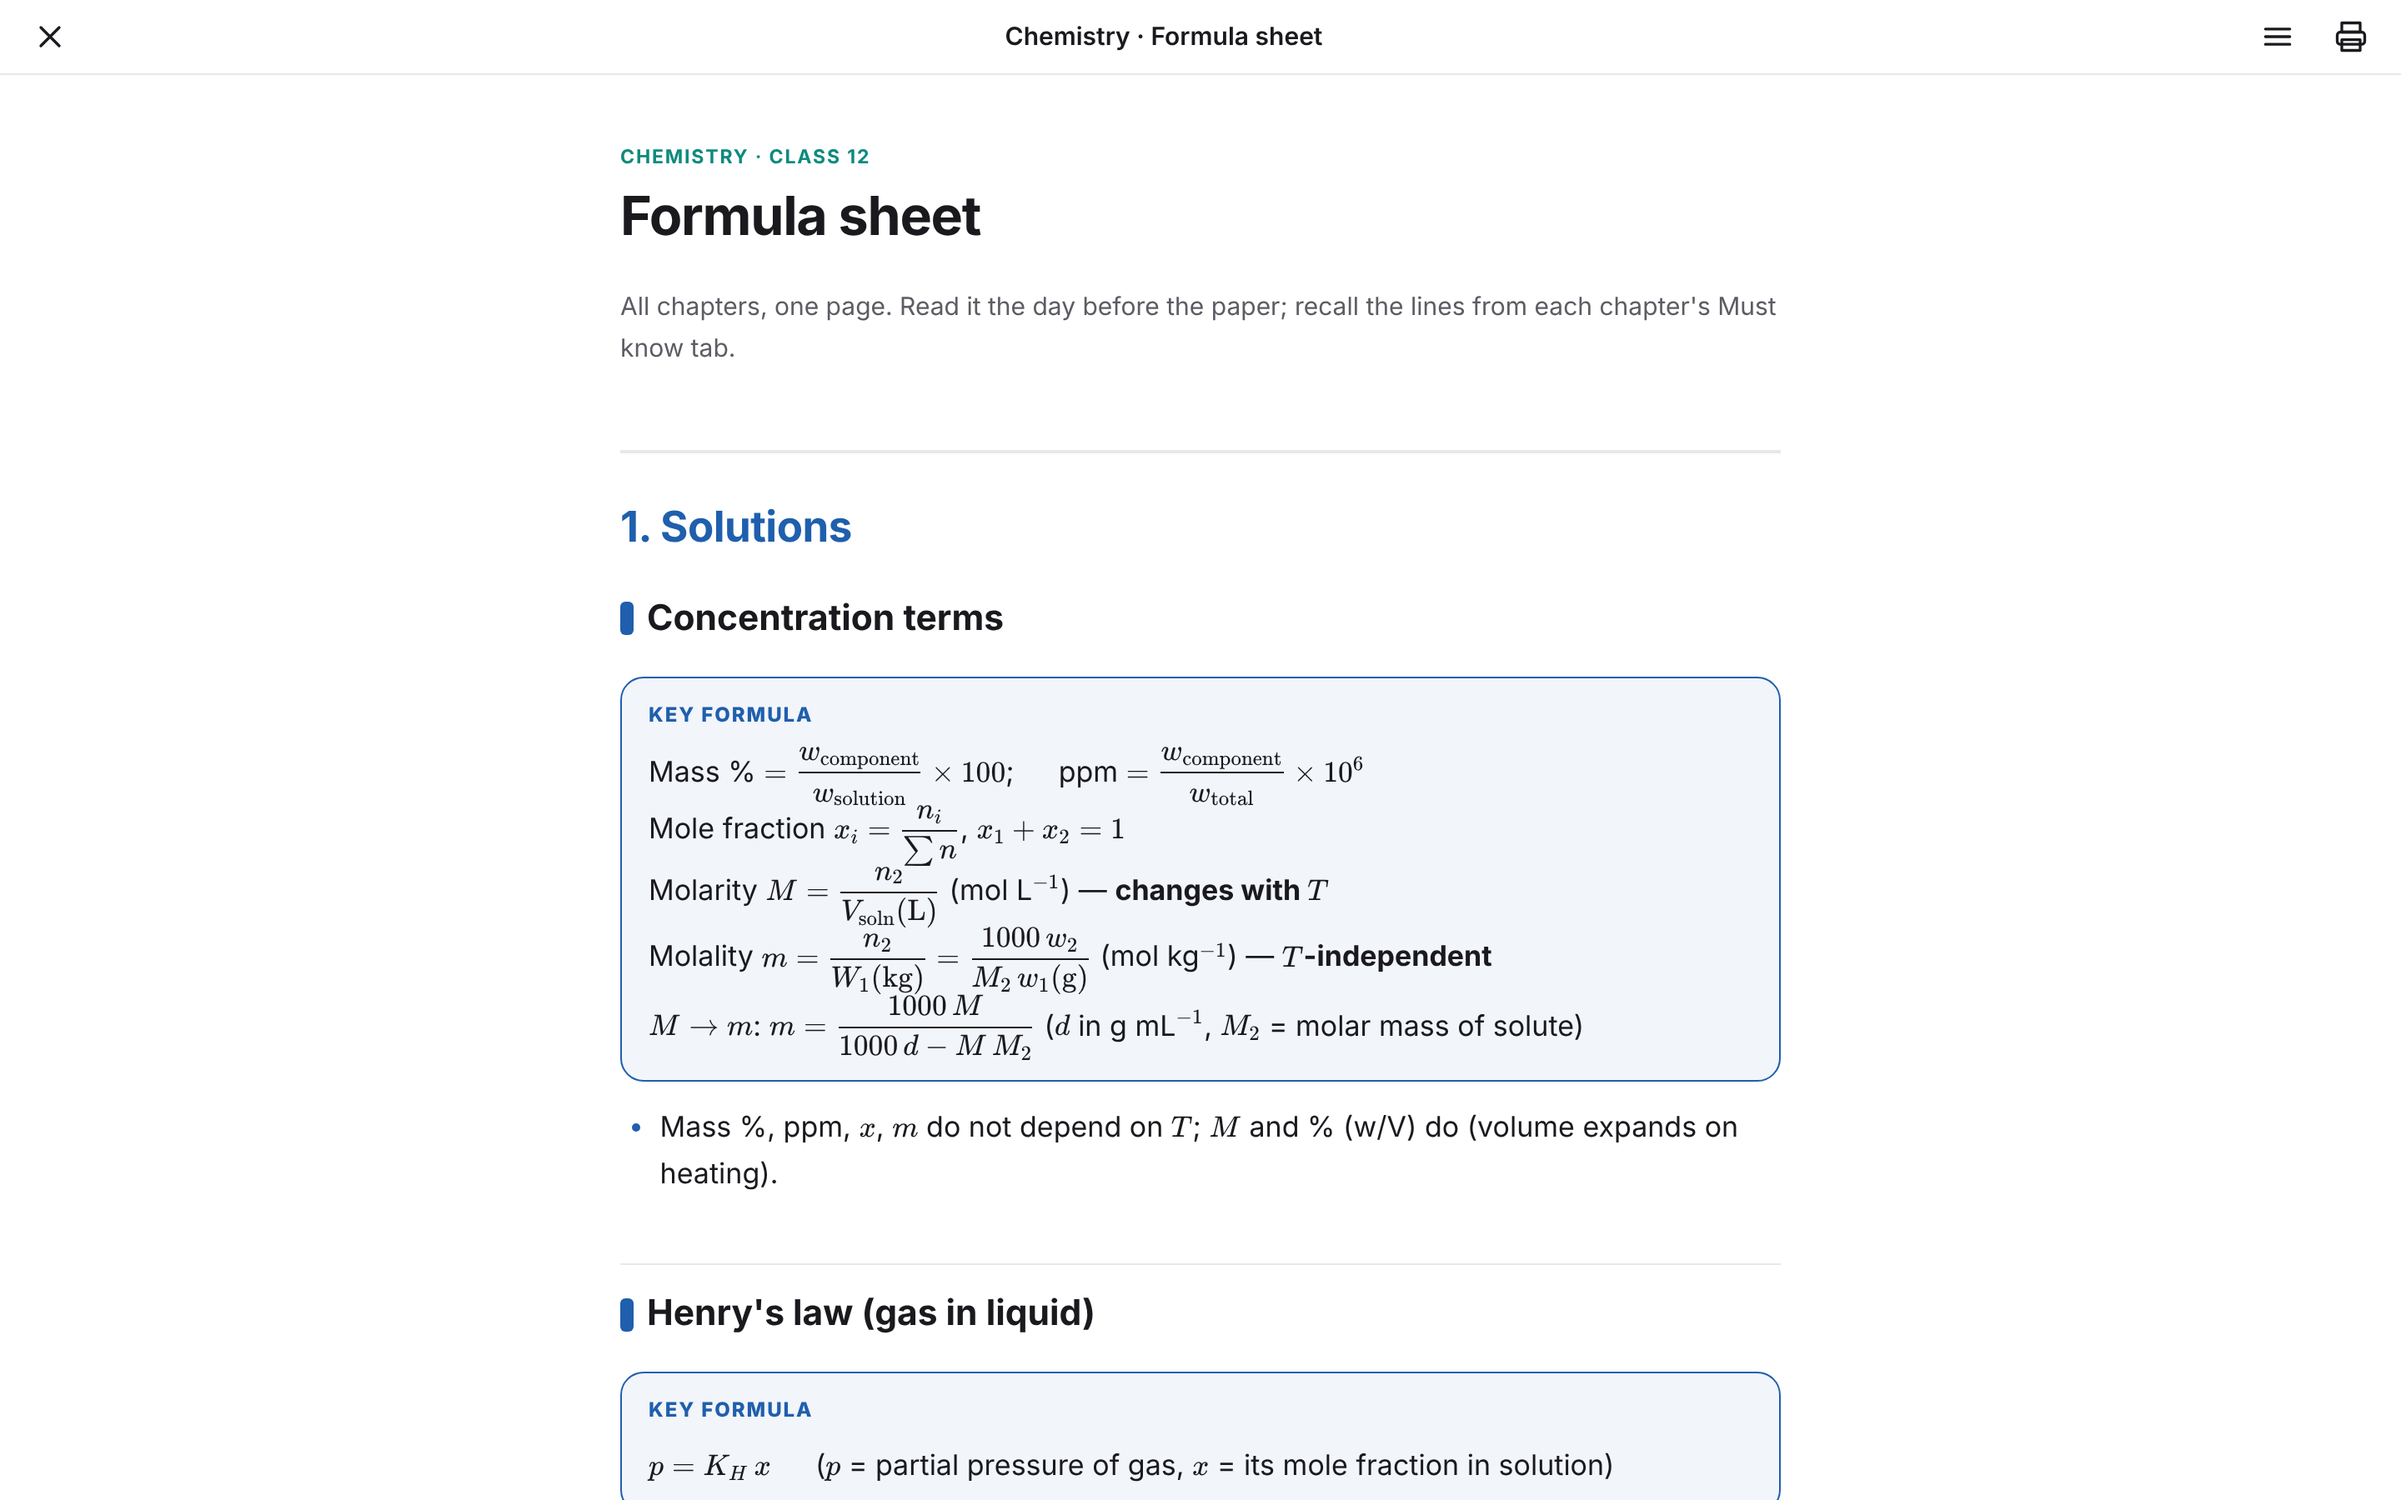
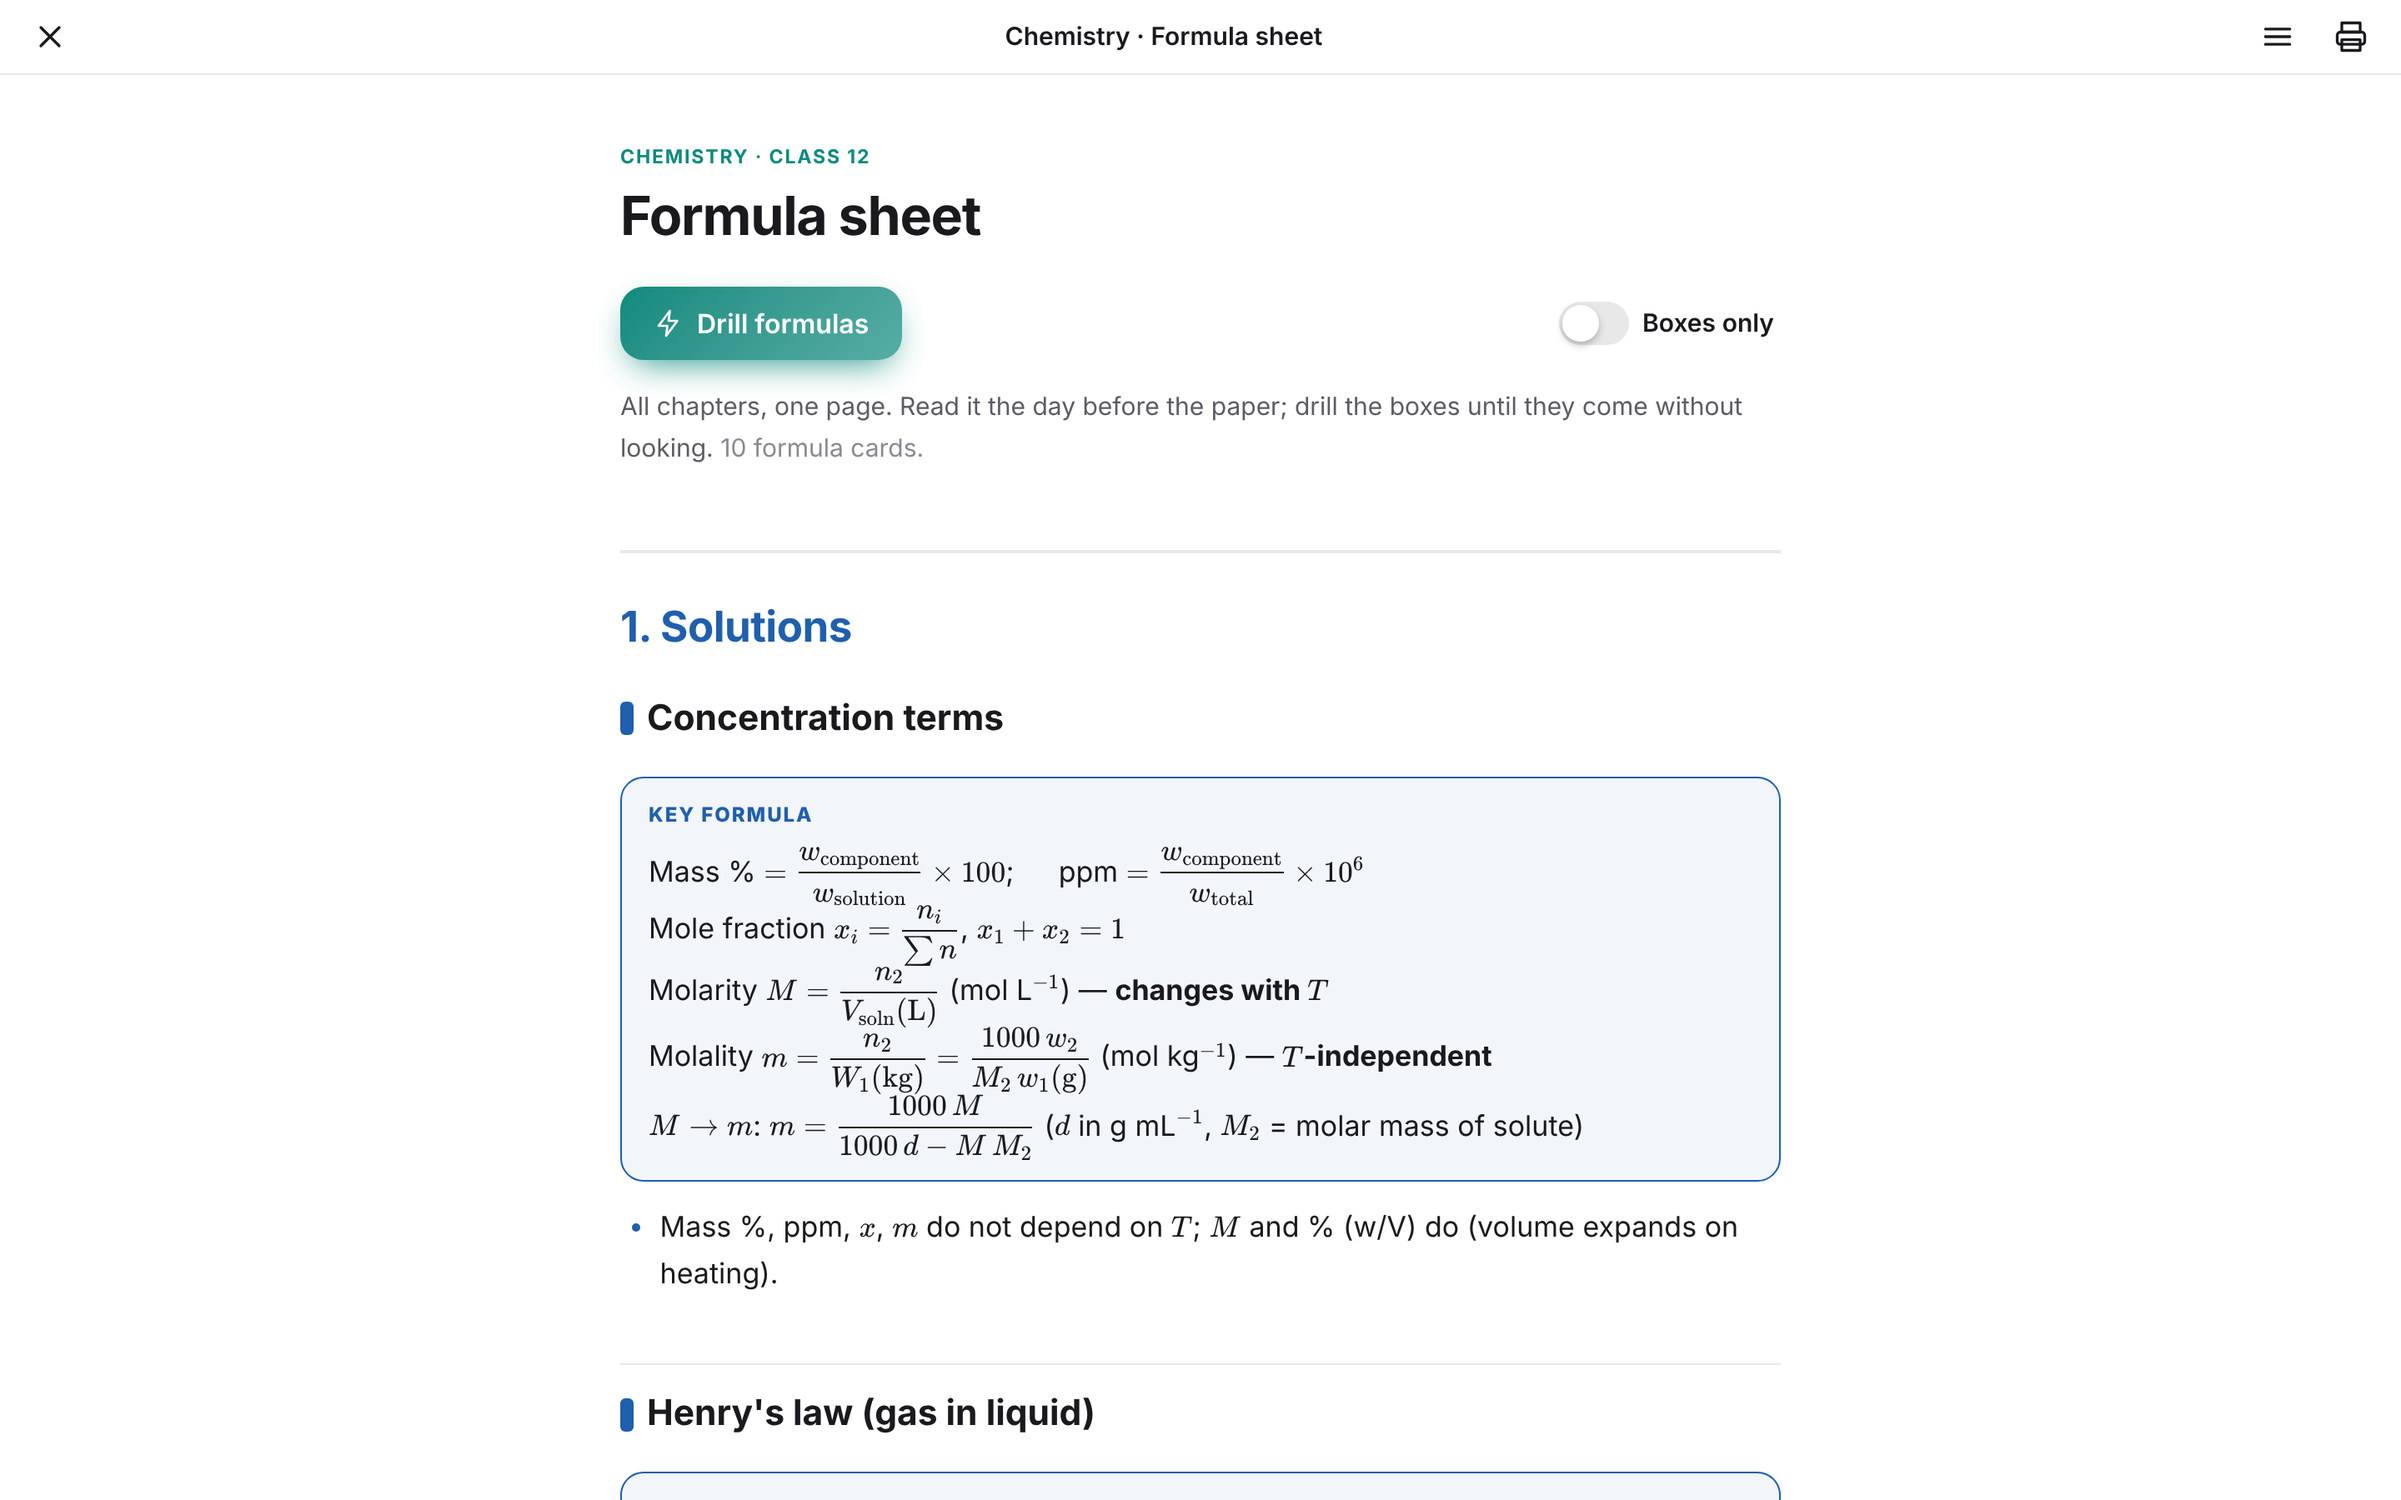
site: formula remembering — Drill formulas and Boxes only on the formula sheet
- Formula sheet: 'Drill formulas' opens …/formulas/drill, a recall session of only the subject's :::formula cards
  (title = question; untitled boxes ask 'LHS = ?'), same Leitner schedule and ids as chapter Recall.
- 'Boxes only' switch hides the prose and keeps the formula boxes (and the heading naming each box); remembered.
- Card count and due-today shown under the title.
- sw: CACHE_VERSION dev13.

Claude-Session: https://claude.ai/code/session_013Q11xHt3aNdyCJserdQXRT

diff --git a/app/views/formulas.js b/app/views/formulas.js
@@ -1,22 +1,47 @@
 // Subject formula sheet: every chapter's formulas.md stitched into one page, opened in the reader frame.
-import { html, raw, icon, esc, emptyState } from '../ui.js';
+// Two extras for remembering: "Drill formulas" (recall session of the subject's formula cards) and
+// "Boxes only" (hides the prose, shows just the formula boxes — for the night before).
+import { html, raw, icon, esc, emptyState, haptic } from '../ui.js';
 import { data, routeFor } from '../data.js';
+import { store } from '../store.js';
 
 export async function formulaSheet({ cls, stream, sub }) {
   const chapters = data.allChapters(sub).filter((c) => c.items?.formulas);
   const back = routeFor(cls.id, stream.id, sub.id);
+  const boxesOnly = !!store.get('formulas.boxesOnly', false);
   return {
     title: `${sub.name} · formula sheet`, tab: 'subjects', fullscreen: true, unitColour: sub.colour,
-    html: html`<div class="rd" id="rd" data-paper="auto" data-font="sans" data-mode="scroll" style="--unit:#${sub.colour};--rd-size:17px">
+    html: html`<div class="rd${boxesOnly ? ' is-boxes' : ''}" id="rd" data-paper="auto" data-font="sans" data-mode="scroll" style="--unit:#${sub.colour};--rd-size:17px">
       <header class="rd__top"><a class="icon-btn" href="${back}" aria-label="Close">${raw(icon('x'))}</a><div class="rd__title truncate">${sub.name} · Formula sheet</div><div class="row" style="gap:0"><button class="icon-btn" type="button" data-contents aria-label="Chapters">${raw(icon('menu'))}</button><button class="icon-btn hide-phone" type="button" onclick="window.print()" aria-label="Print">${raw(icon('print'))}</button></div></header>
       <div class="rd__stage"><article class="rd__book" id="rd-book">
         <div class="rd__unit">${sub.name} · ${cls.name}</div>
         <h1 class="rd__h1">Formula sheet</h1>
-        <p class="t-2" style="font-family:var(--font-sans);font-size:var(--fs-subhead)">All chapters, one page. Read it the day before the paper; recall the lines from each chapter's Must know tab.</p>
+        <div class="fs-tools" role="group" aria-label="Formula tools">
+          <a class="btn btn--unit" href="${back}/formulas/drill" style="--unit:#${sub.colour}">${raw(icon('bolt'))} Drill formulas</a>
+          <button class="fs-toggle" type="button" role="switch" aria-checked="${boxesOnly}" data-boxes><span class="switch" aria-hidden="true"></span><span>Boxes only</span></button>
+        </div>
+        <p class="t-2 fs-intro" id="fs-count" style="font-family:var(--font-sans);font-size:var(--fs-subhead)">All chapters, one page. Read it the day before the paper; drill the boxes until they come without looking.</p>
         <div id="fs-content">${chapters.length ? raw(chapters.map((c) => `<section id="fs-${c.id}" data-colour="${c.unitObj.colour}"><h2 class="rd__divider" style="color:#${c.unitObj.colour}">${c.number}. ${esc(c.title)}</h2><div class="skeleton" style="height:4rem"></div></section>`).join('')) : emptyState({ icon: 'formula', title: 'No formula sections yet' })}</div>
       </article></div>
     </div>`,
     async mount(el) {
+      const rd = el.querySelector('#rd');
+      const sw = el.querySelector('[data-boxes]');
+      sw.addEventListener('click', () => {
+        const on = !rd.classList.contains('is-boxes');
+        rd.classList.toggle('is-boxes', on); sw.setAttribute('aria-checked', String(on)); sw.querySelector('.switch').setAttribute('aria-checked', String(on));
+        store.set('formulas.boxesOnly', on); haptic();
+      });
+      sw.querySelector('.switch').setAttribute('aria-checked', String(boxesOnly));
+      // how many formula cards this subject has, and how many are due
+      import('./recall.js').then(async ({ formulaCards }) => {
+        const { cardState, isDue } = await import('../recall.js');
+        const cards = await formulaCards(sub);
+        if (!cards.length) return;
+        const due = cards.filter((c) => isDue(c.id)).length, seen = cards.filter((c) => cardState(c.id)).length;
+        const p = el.querySelector('#fs-count');
+        if (p) p.insertAdjacentHTML('beforeend', ` <span class="t-3">${cards.length} formula cards${due ? ` · <strong>${due} due today</strong>` : seen ? ` · ${seen} on your schedule` : ''}.</span>`);
+      }).catch(() => {});
       if (!chapters.length) return;
       const { renderMarkdown } = await import('../markdown.js');
       for (const c of chapters) {
@@ -24,6 +49,7 @@ export async function formulaSheet({ cls, stream, sub }) {
         const src = await data.formulas(sub, c.id);
         const node = await renderMarkdown(src || '', { unitColour: c.unitObj.colour });
         sec.querySelector('.skeleton')?.remove(); sec.appendChild(node);
+        for (const h of node.querySelectorAll(':scope > h2, :scope > h3')) if (h.nextElementSibling?.classList.contains('box--formula')) h.classList.add('fs-keep'); // headings that name a box stay in Boxes only
         const { attach } = await import('../highlights.js'); attach(node, `${sub.id}/${c.id}/formulas`);
       }
       el.querySelector('[data-contents]')?.addEventListener('click', async () => {

diff --git a/app/views/recall.js b/app/views/recall.js
@@ -10,6 +10,21 @@ export async function recallChapter({ cls, stream, sub, unit, ch }) {
   return build({ title: `Recall · Ch ${ch.number}`, cards: session(cards, { max: 25 }), back: routeFor(cls.id, stream.id, sub.id, ch.id, 'mustknow'), colour: unit.colour, cls, stream, sub, total: cards.length });
 }
 
+/** All formula cards of one subject (every chapter's :::formula boxes), same Leitner schedule as chapter Recall. */
+export async function formulaCards(sub) {
+  const out = [];
+  for (const c of data.allChapters(sub).filter((x) => x.items?.mustknow)) {
+    const src = await data.mustknow(sub, c.id);
+    if (src) out.push(...cardsFrom(src, { subject: sub.id, chapter: c.id, chapterTitle: c.title, colour: c.unitObj.colour }).filter((k) => k.kind === 'formula'));
+  }
+  return out;
+}
+/** …/<subject>/formulas/drill — a recall session of formula cards only. */
+export async function recallFormulas({ cls, stream, sub }) {
+  const cards = await formulaCards(sub);
+  return build({ title: `Drill formulas · ${sub.name}`, cards: session(cards, { max: 30 }), back: routeFor(cls.id, stream.id, sub.id, 'formulas'), colour: sub.colour, cls, stream, sub, total: cards.length, emptyTitle: 'No formula cards yet', emptyText: 'Titled :::formula boxes in each chapter’s Must know become drill cards.' });
+}
+
 /** #/recall — everything due today across the student's subjects. */
 export async function recallDue() {
   const s = store.settings;
@@ -32,7 +47,7 @@ export async function recallDue() {
   return build({ title: 'Recall · due today', cards: list, back: '#/today', colour: null, cls: s.class, stream: s.stream, total: list.length });
 }
 
-function build({ title, cards, back, colour, cls, stream, sub, total }) {
+function build({ title, cards, back, colour, cls, stream, sub, total, emptyTitle, emptyText }) {
   const unitStyle = colour ? `--unit:#${colour}` : '';
   return {
     title, tab: 'today', fullscreen: true, unitColour: colour,
@@ -50,7 +65,7 @@ function build({ title, cards, back, colour, cls, stream, sub, total }) {
       const stage = el.querySelector('#rc-stage'), foot = el.querySelector('#rc-foot'), count = el.querySelector('#rc-count'), bar = el.querySelector('#rc-bar');
       const { renderMarkdown } = await import('../markdown.js');
       let i = 0, revealed = false; const results = { got: 0, again: 0, againCards: [] };
-      if (!cards.length) { stage.innerHTML = String(emptyState({ icon: 'bolt', title: 'No cards in this chapter yet', text: 'Must-know lines appear here as flashcards once the chapter has them.', action: `<a class="btn btn--secondary" href="${back}">Back</a>` })); return; }
+      if (!cards.length) { stage.innerHTML = String(emptyState({ icon: 'bolt', title: emptyTitle || 'No cards in this chapter yet', text: emptyText || 'Must-know lines appear here as flashcards once the chapter has them.', action: `<a class="btn btn--secondary" href="${back}">Back</a>` })); return; }
       const md = async (s) => { const n = await renderMarkdown(s, { unitColour: colour || undefined, eager: true }); n.classList.add('rc__md'); return n; };
       const show = async () => {
         const c = cards[i]; revealed = false;

diff --git a/styles/reader.css b/styles/reader.css
@@ -137,3 +137,16 @@
 .rc__btns { display: grid; grid-template-columns: 1fr 1fr; gap: var(--s-3); max-width: 40rem; margin: 0 auto; }
 .rc__btns .btn, .rc__foot > .btn { min-height: 3.25rem; font-size: var(--fs-body); max-width: 40rem; margin: 0 auto; }
 .rc__foot > .btn { display: flex; }
+
+/* ---------- Formula sheet tools: Drill + Boxes only ---------- */
+.fs-tools { display: flex; align-items: center; justify-content: space-between; gap: var(--s-3); flex-wrap: wrap; margin-bottom: var(--s-4); font-family: var(--font-sans); }
+.fs-tools .btn { min-height: 2.75rem; }
+.fs-toggle { display: inline-flex; align-items: center; gap: var(--s-2); min-height: var(--tap); padding: 0 var(--s-1); font-size: var(--fs-subhead); font-weight: 600; color: var(--ink); border-radius: var(--r-sm); }
+.fs-toggle .switch { width: 2.6rem; height: 1.6rem; }
+.fs-toggle .switch::after { width: calc(1.6rem - 4px); height: calc(1.6rem - 4px); }
+.fs-toggle .switch[aria-checked="true"]::after { transform: translateX(1rem); }
+/* Boxes only: hide everything in the stitched sections except formula boxes (chapter dividers stay) */
+.rd.is-boxes .fs-intro, .rd.is-boxes .prose > :not(.box--formula):not(.fs-keep) { display: none; }
+.rd.is-boxes .prose > h2.fs-keep { margin-top: var(--s-6); font-size: 1em; }
+.rd.is-boxes .prose > .box--formula { margin-top: var(--s-3); }
+.rd.is-boxes .rd__divider { margin-top: var(--s-8); }

diff --git a/app/views/chapter.js b/app/views/chapter.js
@@ -11,6 +11,7 @@ export async function chapter(route) {
   preloadMarkdown(); // fetch the renderer in parallel with the index lookup
   const { cls, stream, subject: sub } = await data.resolve(route.classId, route.streamId, route.subjectId);
   if (!sub) return { title: 'Not found', tab: 'subjects', html: emptyState({ icon: 'alert', title: 'No such subject' }) };
+  if (route.chapterId === 'formulas' && route.tab === 'drill') { const { recallFormulas } = await import('./recall.js'); return recallFormulas({ cls, stream, sub }); }
   if (route.chapterId === 'formulas') { const { formulaSheet } = await import('./formulas.js'); return formulaSheet({ cls, stream, sub }); }
   const { unit, chapter: ch } = data.chapterOf(sub, route.chapterId);
   if (!ch) return { title: 'Not found', tab: 'subjects', back: routeFor(cls.id, stream.id, sub.id), html: emptyState({ icon: 'alert', title: 'No such chapter', action: `<a class="btn btn--secondary" href="${routeFor(cls.id, stream.id, sub.id)}">Back to ${esc(sub.name)}</a>` }) };

diff --git a/sw.js b/sw.js
@@ -3,7 +3,7 @@
    - Content (content/**, data/**): stale-while-revalidate so notes, plan and practice work offline once opened.
    - Vendored libraries (vendor/**: KaTeX, marked, DOMPurify, fonts): cache-first, version-pinned.
    Updates: the new worker waits; the page shows "New version available" and posts SKIP_WAITING. */
-const CACHE_VERSION = 'dev12';
+const CACHE_VERSION = 'dev13';
 const SHELL = `ng-shell-${CACHE_VERSION}`;
 const CONTENT = 'ng-content-v1';
 const LIBS = 'ng-libs-v1';
